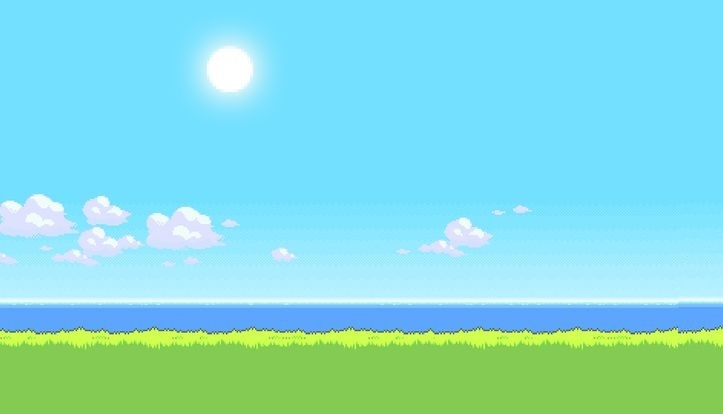
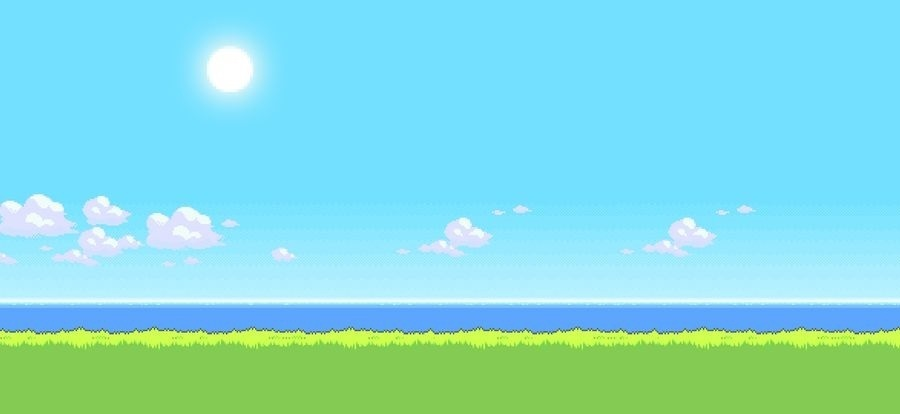
mais imagens de fundo

diff --git a/js/main.js b/js/main.js
@@ -19,7 +19,9 @@ const backgrounds = [
     '../img/fase2.jpg',
     '../img/fase3.jpg',
     '../img/fase4.jpg',
-    '../img/fase5.jpg'
+    '../img/fase5.jpg',
+    '../img/fase6.jpg',
+    '../img/fase7.jpg'
 ];
 const cenario = new Cenario(canvas, backgrounds);
 

diff --git a/css/style.css b/css/style.css
@@ -12,8 +12,8 @@ main{
     justify-content: center;
 }
 #canva{
-    width: 300px;
-    height: 300px;
+    width: 450px;
+    height: 350px;
     border: solid green 1px;
     background-color: rgb(0, 0, 0);
 }
